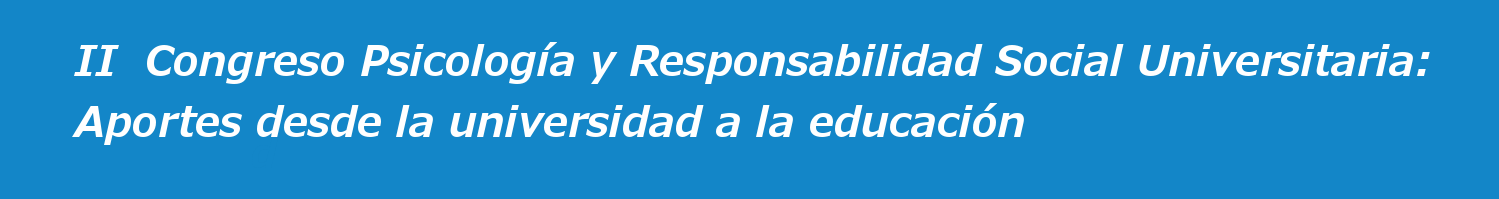
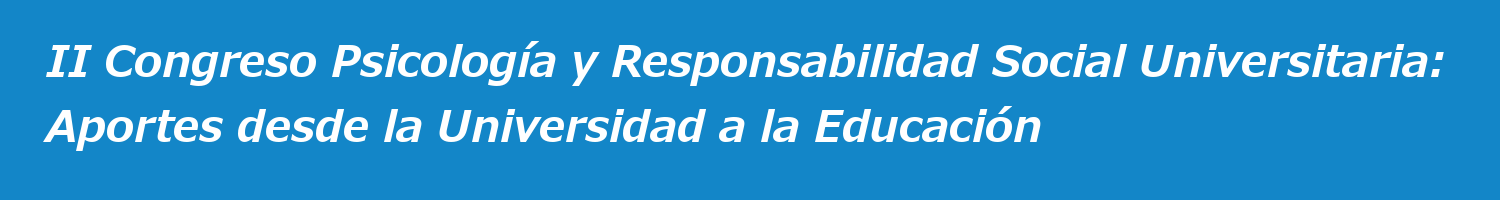
´laurasupdates'

Changed region(s): [[0.0307, 0.2111, 0.982, 0.4523], [0.0307, 0.5126, 0.7058, 0.7538]]

diff --git a/trabajos.html b/trabajos.html
@@ -30,20 +30,20 @@
    
 </div>
 <div ID="rightSide"> </div>
- <div ID="carta"><h1>Instrucciones Poster</h1></br>
+ <div ID="carta"><h1>Instrucciones Póster</h1></br>
  
 <p>
 
 
-La organiación invita a todas las personas intersadas en realizar aportes al congreso, a realizarlo mediante la modalidad de poster científico. Un Póster es una presentación gráfica, que da cuenta de un trabajo de investigación o una experiencia de intervención aplicada que se encuentra en proceso o ya concluida.  
+La organiazión invita a todas las personas intersadas en realizar aportes al congreso, a realizarlo mediante la modalidad de póster científico. Un Póster es una presentación gráfica, que da cuenta de un trabajo de investigación o una experiencia de intervención aplicada que se encuentra en proceso o ya concluida.  
 
-La participación a través de Póster, incluye la presencia de al menos uno de los autores el día viernes 5 de diciembre entre las 08.30 y las 10.30.</p></br> <p>  En esta instancia los posters serán expuestos para todo el público asistente al congreso  permitiendo el dialogo entre los mismos y los expositores.  El material expuesto debe medir un máximo de 70 cms de ancho x 100 cms de alto, contemplando el uso de figuras, tablas y otros recursos visuales. Recordamos que un buen poster por sí mismo debe contener toda la información necesaria para entenderse sin ser explicado.   
+La participación a través de Póster, incluye la presencia de al menos uno de los autores el día viernes 5 de diciembre entre las 08.30 y las 10.30.</p></br> <p>  En esta instancia los posters serán expuestos para todo el público asistente al congreso  permitiendo el dialogo entre los mismos y los expositores.  El material expuesto debe medir un máximo de 70 cms de ancho x 100 cms de alto, contemplando el uso de figuras, tablas y otros recursos visuales. Recordamos que un buen póster por sí mismo debe contener toda la información necesaria para entenderse sin ser explicado.   
 
-  <p style="text-indent:10px;"> Para materializar en el envío de tu trabajo y su aceptación en el congreso, se solicita enviar un resumen de 250 palabras y completar los datos en la Ficha de Envío hasta el día viernes 7 de noviembre al correo electrónico: oarellanof@uautonoma.cl, especificando en el asunto: Envío de Poster II Congreso.</p>  </p></br><p>
+</br></br>   <p > Para materializar en el envío de tu trabajo y su aceptación en el congreso, se solicita enviar un resumen de 250 palabras y completar los datos en la Ficha de Envío hasta el día viernes 7 de noviembre al correo electrónico: oarellanof@uautonoma.cl, especificando en el asunto: Envío de Póster II Congreso.</p>  </p></br><p>
 
 Cabe mencionar, que resulta de gran relevancia para nosotros como Comité Organizador contar con todas las experiencias que puedan aportar material para la reflexión en torno a la educación, que sin duda fortalecerá y dará gran realce al desarrollo de esta instancia. 
 
-<p style="text-indent:10px;"> Agradecemos  de antemano su participación. 
+</br> </br> <p > Agradecemos  de antemano su participación. 
 </p></div>
 
 
